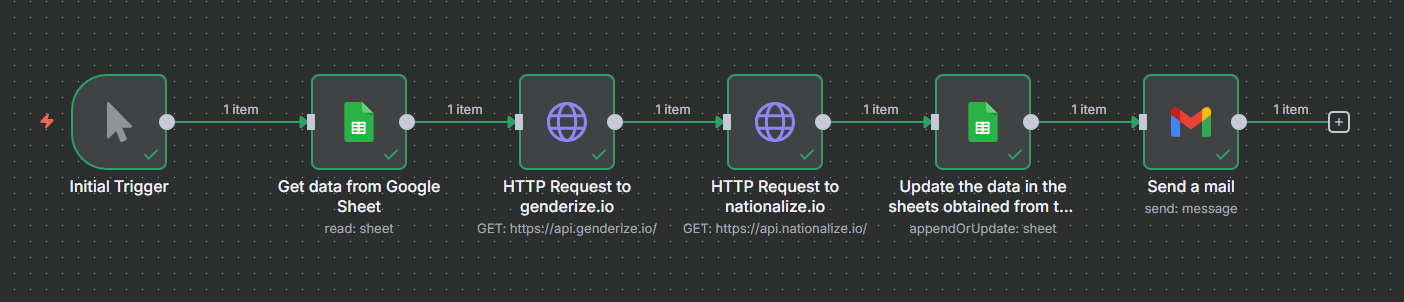
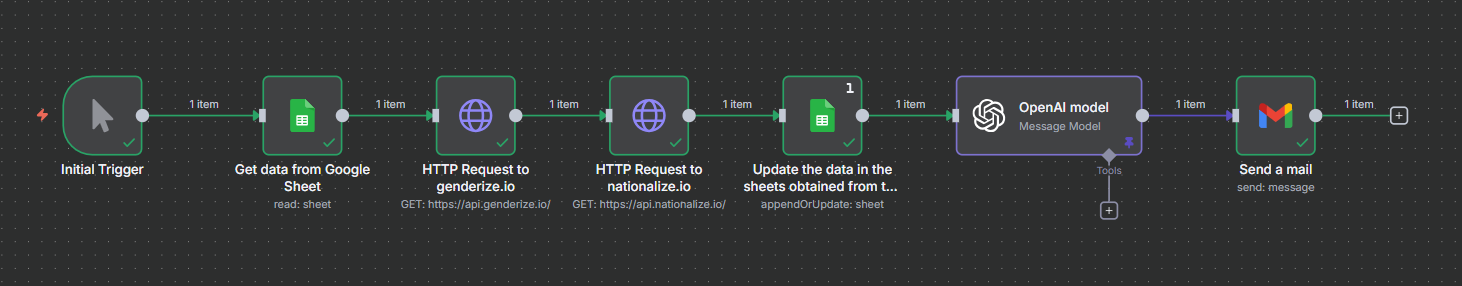
automation 2 modified

diff --git a/README.md b/README.md
@@ -8,12 +8,13 @@ This repository contains a collection of automation workflows built with [n8n](h
 **Screenshot:**  
 ![Google Sheets Workflow](./screenshots/automation1.png)
 
-### 2. Real Estate Client Automation (Google Sheets + API → Dynamic Email)
-**Description:** Streamlines client onboarding for a real estate workflow. When new client data (ID, Name, Number, Budget) is submitted:  
-1. Gender is predicted using **Genderize.io** based on the name.  
-2. Nationality is predicted using **Nationalize.io** based on the name.  
-3. The calculated Gender and Nationality are appended to the Google Sheet along with original client data.  
-4. A dynamic email is sent to notify the team about the new client with all details included.  
+### 2. Real Estate Client Automation with AI (Google Sheets + API + OpenAI → Dynamic Email)
+**Description:** Enhances client onboarding for real estate using both API enrichment and AI-powered communication. When new client data (ID, Name, Number, Budget) is submitted:  
+1. Gender is predicted using **Genderize.io**.  
+2. Nationality is predicted using **Nationalize.io**.  
+3. Both predictions are appended to Google Sheets alongside the client data.  
+4. The full client details are passed into an **OpenAI model**, which generates a well-structured and professional email template.  
+5. The dynamically crafted email is sent to notify the team about the new client.  
 
 **Screenshot:**  
 ![Real Estate Workflow](./screenshots/automation2.png)
